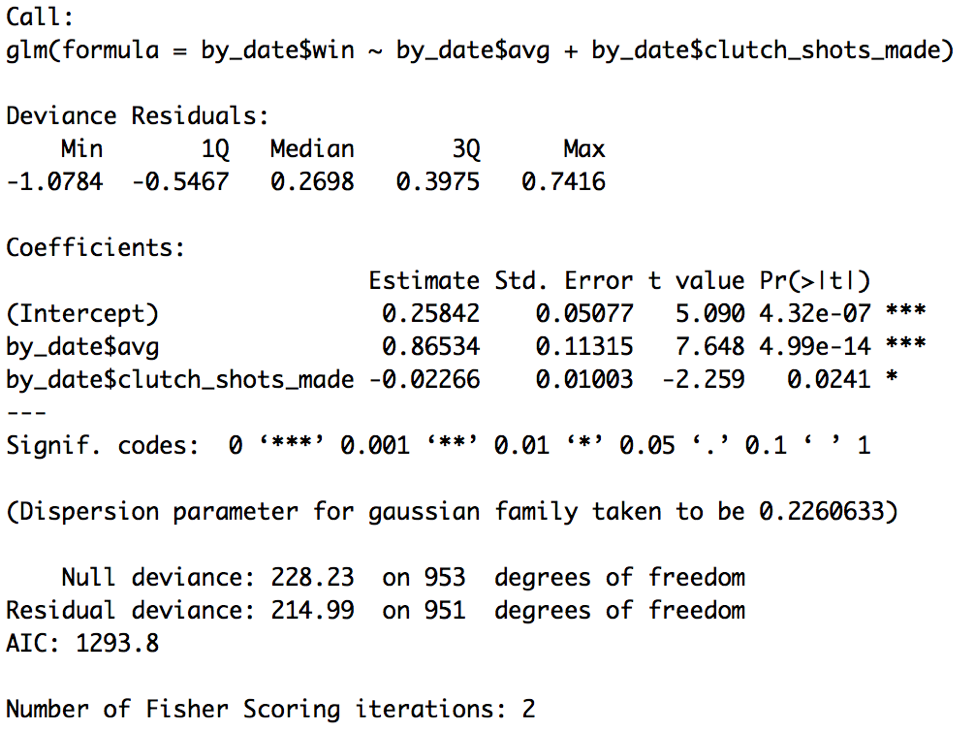
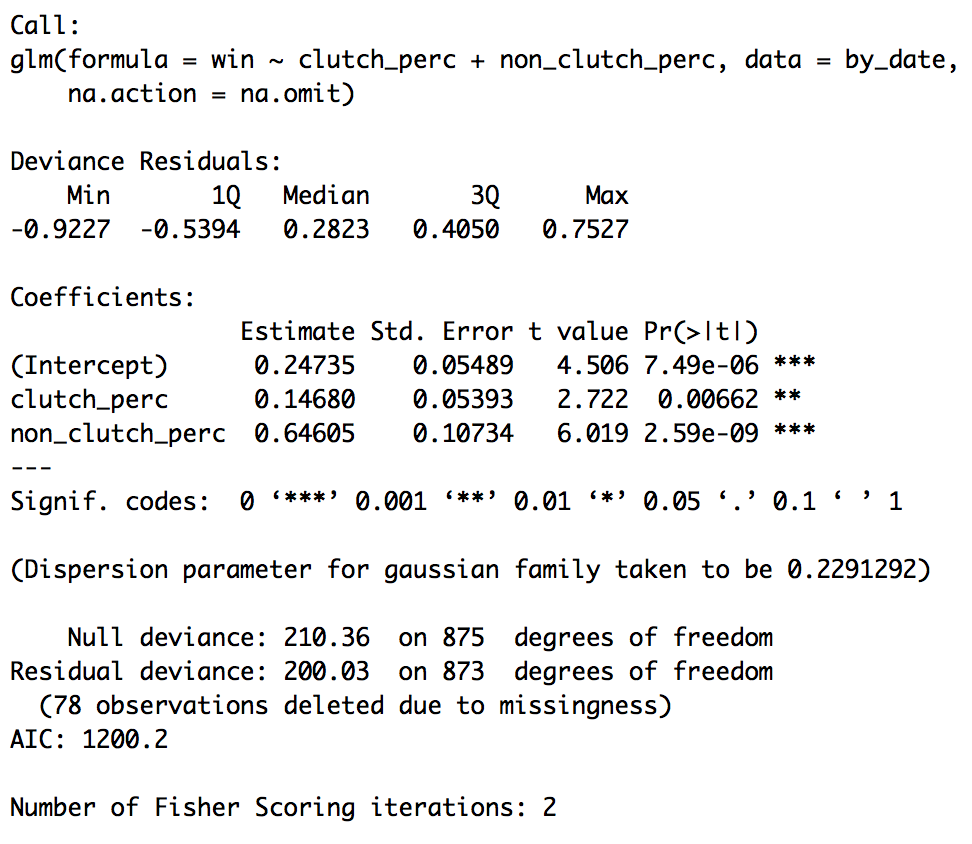
corrected win/loss model in report

diff --git a/report.tex b/report.tex
@@ -141,7 +141,7 @@
 
 	\hspace*{1cm}While preprocessing the data, we thought it would be helpful to normalize the variables for game date and the season to be integers beginning with 1 and increasing by 1 for each successive season/game because we thought it likely that Kobe's skill level changed with time and normalizing the time-dependent variables (using a \texttt{for} loop to increment a counter variable every time we found a unique instance of a time-dependent variable in the date-ordered data set) would allow us to more easily use them as predictors.
 
-	\hspace*{1cm}Additionally, we created a separate data frame specifically to track Kobe's ``clutch'' shots, that is, the shots Kobe attempted when there were less than 2 minutes remaining in the game, in order to examine whether Kobe's shooting accuracy improved or suffered towards the end of the game and whether Kobe lived up to his ``clutch'' reputation. We thought 2 minutes was a reasonable threshold for ``clutch'' shooting because the 2 minute mark is close enough to the end of the game to warrant riskier plays but far away enough for Kobe to execute those plays and actually take some shots. 
+	\hspace*{1cm}Additionally, we created a separate data frame specifically to track Kobe's ``clutch'' shots, that is, the shots Kobe attempted when there were less than 2 minutes remaining in the game, in order to examine whether Kobe's shooting accuracy improved or suffered towards the end of the game and whether Kobe lived up to his ``clutch'' reputation. We thought 2 minutes was a reasonable threshold for ``clutch'' shooting because the 2 minute mark is close enough to the end of the game to warrant riskier plays but far away enough for Kobe to execute those plays and actually take some shots. We also created a variable to track Kobe's shooting percentage for non-clutch shots to avoid multicollinearity during model building if we were to use Kobe's ``clutch'' shooting percentage as a regresssor. 
 	\subsection{Addition of Win-loss Data}
 	\hspace*{1cm}Unfortunately the Kaggle dataset did not include data on whether the game during which a particular shot took place was won by the Lakers or not. Therefore we decided to gather that data ourselves. We scraped win-loss data for all Lakers games in the time period covered by the Kaggle dataset from \texttt{landofbasketball.com} \cite{landofbasketball} using the ``Web Scraper'' Chrome extension and merged that data with the original Kaggle dataset for use in our analysis.
 	\subsection{New Variables Created}
@@ -162,14 +162,16 @@
 	\item \texttt{shots\_made}: Shots made for each game (may seem redundant, but useful for calculating averages over multiple games since we can't just average the averages)
 	\item \texttt{shots\_taken}: Shots taken per game (may seem redundant, but useful for calculating averages over multiple games since we can't just average the averages)
 	\item \texttt{clutch\_threshold}: Number of minutes remaining at which we begin counting shots as clutch shots.
-	\item \texttt{clutch\_perc}: Average shot percentage for clutch shots (shots attempted with below \texttt{clutch\_threshold} minutes remaining) for each game.
+	\item \texttt{clutch\_perc}: Average shooting percentage for clutch shots (shots attempted with below \texttt{clutch\_threshold} minutes remaining) for each game.
 	\item \texttt{clutch\_shots\_made}: number of clutch shots made for each game.
 	\item \texttt{clutch\_shots\_taken}: number of clutch shots taken for each game. 
+	\item \texttt{non\_clutch\_perc}: Average shooting percentange for non-clutch shots (shots attempted with above \texttt{clutch\_threshold} minutes remaining) for each game. 
 	\item \texttt{ot}: dummy variable for whether or not the game went overtime.
 	\item \texttt{ot\_taken}: number of shots taken in OT.
 	\item \texttt{ot\_made}: number of shots made in OT.
 	\item \texttt{ot\_avg}: OT shooting percentage for each game.
 	\item \texttt{season\_norm}: represents the number of seasons Kobe has been in the NBA at the time of each game.
+
 	\end{itemize}
 \section{Assumptions}
 \subsection{Randomness of Data}
@@ -255,13 +257,13 @@ package. Using the AIC criterion with a backwards stepwise regression, we obtain
 \hspace*{1cm}The linear model would have failed almost every single one of our regression diagnostics so we decided that running them would be redundant. For example, the dependent variable was binary so all of our residuals would have exhibited heteroskedasticity. However, by comparing the linear model results to the logit model results, we found that the signs of the coefficients of the significant regressors agreed with the signs of the logit model coefficients, lending support to the validity of the observations derived from the logit model coefficients. 
 
 \subsubsection{Logistic Regression on Win/Loss Data}
-\hspace*{1cm}To evaluate whether or not Kobe's game performance affected the ultimate result of a given game (on average), we ran a logit regression using the \texttt{win} variable mentioned above (obtained by scraping win/loss data) against the summary statistics of Kobe's game performance (for example, the above-mentioned \texttt{avg} and \texttt{clutch\_shots\_made}) variables. Even though we had fewer observations for win/loss data than for shooting data because unique observations occurred on a game-by-game basis as opposed to a shot-by-shot basis, our win/loss data still satisfied the assumptions necessary to run a logit regresion. 
+\hspace*{1cm}To evaluate whether or not Kobe's game performance affected the ultimate result of a given game (on average), we ran a logit regression using the \texttt{win} variable mentioned above (obtained by scraping win/loss data) against the summary statistics of Kobe's game performance. To avoid multicollinearity between our regressors, we chose to only regress \texttt{win} against \texttt{clutch\_perc} and \texttt{non\_clutch\_perc} (because these two statistics were calculated using the \texttt{shots\_made}, \texttt{shots\_taken}, \texttt{clutch\_shots\_made} and \texttt{clutch\_shots\_taken} variables, including any of these variables in the model would have caused our regressors to be extremely interdependent and therefore would have resulted in multicollinearity). Even though we had fewer observations for win/loss data than for shooting data because unique observations occurred on a game-by-game basis as opposed to on a shot-by-shot basis, our win/loss data still satisfied the assumptions necessary to run a logit regresion. 
 
 \hspace*{1cm}Given the similar results obtained by running the \texttt{stepwise} command and manually performing a backwards stepwise regression for the shooting data, we thought it was reasonable to only perform the latter, which produced:
 \begin{center}
-	\includegraphics[scale=0.65]{img/logitwins}
+	\includegraphics[scale=0.6]{img/logitwins}
 \end{center}
-\hspace*{1cm}According to the results above, Kobe's average shot percentage for a given game was associated with a higher probability of a Lakers win and an increase in the number of clutch shots made by Kobe was associated with a decrease in the probability of a Lakers win. Shots made, shots taken, clutch percentage, clutch shots taken, and whether or not the game went into overtime were found to be insignificant. 
+\hspace*{1cm}According to the results above, both Kobe's average shooting percentage and clutch shooting percentage for a given game were associated with a higher probability of a Lakers win, supporting our hypothesis that Kobe's game performance significantly affected on the propbability of a win. 
 \subsubsection{Stationarity}
 \hspace*{1cm}If a given data set is stationary, then the mean, variance, and autocorrelation do not change over time. That is, a stationary series is a flat looking series, without a trend, which has constant variance over time. Stationarity was an important consideration for us to look at because we wanted to see if Kobe's shot percentage changed somehow over time. Did injuries affect how good he was? Did aging cause his shot accuracy to fall or did experience cause it to go up? We used the \texttt{adf.test} function in R to test for stationarity. The null hypothesis was that the data was not stationary and the alternative was that the data was stationary. 
 \begin{center}
